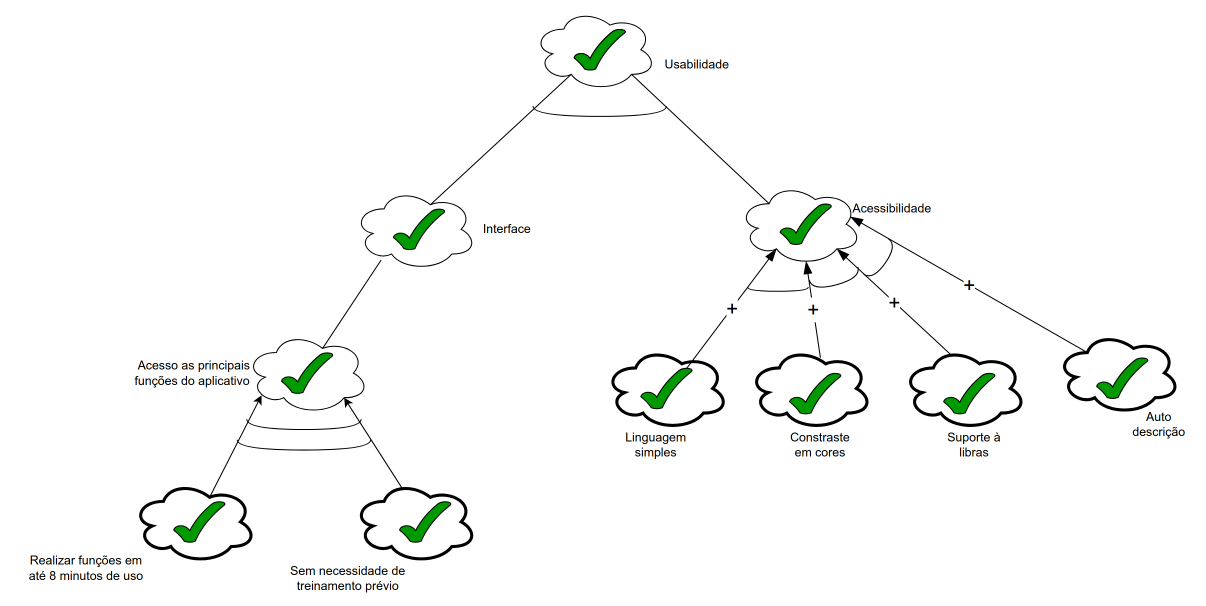
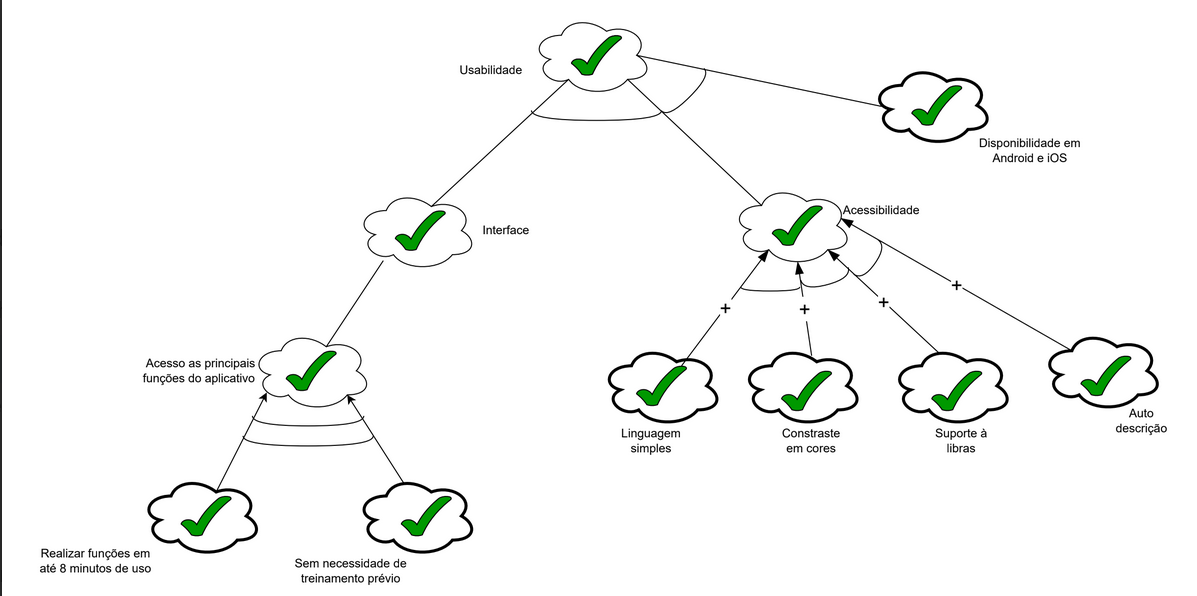
validacao geovana

diff --git a/docs/Modelagem/Ágil/NFR-Framework.md b/docs/Modelagem/Ágil/NFR-Framework.md
@@ -47,7 +47,7 @@ A seguir temos a tabela 1, onde indica todos os participantes da elaboração do
       </tr>
       <tr>
         <td><a href="https://github.com/Yanmatheus0812">Yan Matheus</a></td>
-        <td>Elaborou o <a href="https://requisitos-de-software.github.io/2025.2-Grupo05/Modelagem/%C3%81gil/NFR-Framework/#:~:text=m%C3%A1ximo%203%20segundos.-,Rastreabilidade,RQ26,-Classifica%C3%A7%C3%A3o">Cartão de especificação do NFR26</a> e colaborou na confecção do grafo SIG</td>
+        <td>Elaborou o <a href="https://requisitos-de-software.github.io/2025.2-Grupo05/Modelagem/%C3%81gil/NFR-Framework/#:~:text=m%C3%A1ximo%203%20segundos.-,Rastreabilidade,RQ26,-Classifica%C3%A7%C3%A3o">Cartão de especificação do NFR26</a>, <a href="">Cartão de especificação do NFR10</a> e colaborou na confecção do grafo SIG</td>
         <td>17/10/2025</td>
       </tr>
     </tbody>
@@ -143,7 +143,7 @@ Na tabela 3, está apresentado o cartão de especificação do Requisito Não Fu
 | Itens                 | Descrição                                                                                                                                                           |
 | --------------------- | ------------------------------------------------------------------------------------------------------------------------------------------------------------------- |
 | RNF                   | O aplicativo deve ter uma tecnologia blockchain que é usada para a autenticação e disponibilização de documentos.                                                   |
-| Rastriabilidade       | [RQ03](<https://requisitos-de-software.github.io/2025.2-Grupo05/Modelagem/Especificacao/#:~:text=Autor-,RQ3,-Confiabilidade%20(R)>)                                 |
+| Rastreabilidade       | [RQ03](<https://requisitos-de-software.github.io/2025.2-Grupo05/Modelagem/Especificacao/#:~:text=Autor-,RQ3,-Confiabilidade%20(R)>)                                 |
 | Classificação         | Segurança (S)                                                                                                                                                       |
 | Descrição             | O requisito define que aplicativo deve ter tecnologia blockchain para autenticação e diponibilização de documentos ,garantindo ratreabiliade e segurança dos dados. |
 | Justificativa         | O uso da tecnologia blockchain garante a segurança dos dados ,reduzindo a perda de dados.                                                                           |
@@ -156,7 +156,25 @@ Na tabela 3, está apresentado o cartão de especificação do Requisito Não Fu
 
 <font size="3"><p style="text-align: center">Autor: <a href="https://github.com/mel14-hub">Lara Souza Mota</a></font>
 
-Tabela 4, está apresentado o cartão de especificação do Requisito Não Funcional (RNF) associados ao NFR Framework de Usabilidade, com foco no tempo para realizar funções principais.
+Na tabela 4, está apresentado o cartão de especificação do Requisito Não Funcional (RNF) associados ao NFR Framework de Usabilidade, com foco na disponibilização do aplicativo em diversas plataformas.
+
+| Itens                 | Descrição                                                                                                                                                           |
+| --------------------- | ------------------------------------------------------------------------------------------------------------------------------------------------------------------- |
+| RNF                   | O aplicativo deve ter disponibilidade gratuita nos sistemas operacionais: Android e iOS.                                                   |
+| Rastriabilidade       | [RQ10](https://requisitos-de-software.github.io/2025.2-Grupo05/Elicita%C3%A7%C3%A3o/Requisitos-Elicitados/#:~:text=de%20documenta%C3%A7%C3%A3o%20(ADD010)-,RQ10,-O%20aplicativo%20deve)                                 |
+| Classificação         | Usabilidade (U)                                                                                                                                                       |
+| Descrição             | O requisito define que aplicativo deve ter disponibilidade gratuita em sistemas operacionais Android e iOS |
+| Justificativa         | Permite acesso a todos os estudantes que utilizam celular.                                                                           |
+| Critério de Aceitação | O sistema deve ter um acesso gratuito nas lojas de Android e iOS.                          |
+| Dependências          | Disponibilização do aplicativo nas principais lojas de aplicativo.                                         |
+| Prioridade            | Alta                                                                                                                                                                |
+| Conflitos             | Nenhum                                                                                                                                                              |
+
+<font size="3"><p style="text-align: center">Tabela 4: Disponibilização em Android e iOS </p></font>
+
+<font size="3"><p style="text-align: center">Autor: <a href="https://github.com/Yanmatheus0812">Yan Matheus</a></font>
+
+Tabela 5, está apresentado o cartão de especificação do Requisito Não Funcional (RNF) associados ao NFR Framework de Usabilidade, com foco no tempo para realizar funções principais.
 
 | Itens                 | Descrição                                                                                                                                                                                                                                             |
 | --------------------- | ----------------------------------------------------------------------------------------------------------------------------------------------------------------------------------------------------------------------------------------------------- |
@@ -170,11 +188,11 @@ Tabela 4, está apresentado o cartão de especificação do Requisito Não Funci
 | Prioridade            | Média                                                                                                                                                                                                                                                  |
 | Conflitos             | Nenhum                                                                                                                                                                                                                                                |
 
-<font size="3"><p style="text-align: center">Tabela 4: Tempo para realizar funções principais </p></font>
+<font size="3"><p style="text-align: center">Tabela 5: Tempo para realizar funções principais </p></font>
 
 <font size="3"><p style="text-align: center">Autor: <a href="https://github.com/pedrohpsantos">Pedro Henrique</a></font>
 
-A tabela 5, está apresentado o cartão de especificação do Requisito Não Funcional (RNF) associados ao NFR Framework de Usabilidade, com foco na linguagem adequada ao estudante.
+A tabela 6, está apresentado o cartão de especificação do Requisito Não Funcional (RNF) associados ao NFR Framework de Usabilidade, com foco na linguagem adequada ao estudante.
 
 | Itens                 | Descrição                                                                                                                                                                                                                                                        |
 | --------------------- | ---------------------------------------------------------------------------------------------------------------------------------------------------------------------------------------------------------------------------------------------------------------- |
@@ -188,11 +206,11 @@ A tabela 5, está apresentado o cartão de especificação do Requisito Não Fun
 | Prioridade            | Média                                                                                                                                                                                                                                                             |
 | Conflitos             | Nenhum                                                                                                                                                                                                                                                           |
 
-<font size="3"><p style="text-align: center">Tabela 5: Linguagem adequada ao estudante </p></font>
+<font size="3"><p style="text-align: center">Tabela 6: Linguagem adequada ao estudante </p></font>
 
 <font size="3"><p style="text-align: center">Autor: <a  href="https://github.com/CamilaSilvaC"> Camila Silva</a></font>
 
-A tabela 6, está apresentado o cartão de especificação do Requisito Não Funcional (RNF) associados ao NFR Framework de Performace, com foco em carregar informações em 3 segundos.
+A tabela 7, está apresentado o cartão de especificação do Requisito Não Funcional (RNF) associados ao NFR Framework de Performace, com foco em carregar informações em 3 segundos.
 
 | Itens                 | Descrição                                                                                                                                                                      |
 | --------------------- | ------------------------------------------------------------------------------------------------------------------------------------------------------------------------------ |
@@ -206,11 +224,11 @@ A tabela 6, está apresentado o cartão de especificação do Requisito Não Fun
 | Prioridade            | Alta                                                                                                                                                                           |
 | Conflitos             | Nenhum                                                                                                                                                                         |
 
-<font size="3"><p style="text-align: center">Tabela 6: Carregar informações em 3 segundos </p></font>
+<font size="3"><p style="text-align: center">Tabela 7: Carregar informações em 3 segundos </p></font>
 
 <font size="3"><p style="text-align: center">Autor: <a  href="https://github.com/Yanmatheus0812"> Yan Matheus</a></font>
 
-A tabela 7, está apresentados o cartão de especificação do Requisito Não Funcional (RNF) associados ao NFR Framework de Usabilidade, com foco em acessibilidade e inclusão digital.
+A tabela 8, está apresentados o cartão de especificação do Requisito Não Funcional (RNF) associados ao NFR Framework de Usabilidade, com foco em acessibilidade e inclusão digital.
 
 | Itens                 | Descrição                                                                                                                                                                                                          |
 | --------------------- | ------------------------------------------------------------------------------------------------------------------------------------------------------------------------------------------------------------------ |
@@ -224,11 +242,11 @@ A tabela 7, está apresentados o cartão de especificação do Requisito Não Fu
 | Prioridade            | Alta                                                                                                                                                                                                               |
 | Conflitos             | Nenhum                                                                                                                                                                                                             |
 
-<font size="3"><p style="text-align: center">Tabela 7: Acessibilidade e inclusão digital </p></font>
+<font size="3"><p style="text-align: center">Tabela 8: Acessibilidade e inclusão digital </p></font>
 
 <font size="3"><p style="text-align: center">Autor: <a  href="https://github.com/luisa12ll"> Luísa de Souza </a></font>
 
-A tabela 8, está apresentado o cartão de especificação do Requisito Não Funcional (RNF) associados ao NFR Framework de Performance, com foco no tempo de localização de funcionalidades.
+A tabela 9, está apresentado o cartão de especificação do Requisito Não Funcional (RNF) associados ao NFR Framework de Performance, com foco no tempo de localização de funcionalidades.
 
 | Itens                 | Descrição                                                                                                                                                                          |
 | --------------------- | ---------------------------------------------------------------------------------------------------------------------------------------------------------------------------------- |
@@ -242,7 +260,7 @@ A tabela 8, está apresentado o cartão de especificação do Requisito Não Fun
 | Prioridade            | Alta                                                                                                                                                                              |
 | Conflitos             | Nenhum                                                                                                                                                                             |
 
-<font size="3"><p style="text-align: center">Tabela 8: Tempo de localização de funcionalidades </p></font>
+<font size="3"><p style="text-align: center">Tabela 9: Tempo de localização de funcionalidades </p></font>
 
 <font size="3"><p style="text-align: center">Autor: <a href="https://github.com/GeovannaUmbeliino">Geovanna Alves</a></font>
 
@@ -262,9 +280,9 @@ Figura 4 - Análise diagrama - Usabilidade
 
 ### Requisitos Não-Funcionais - Usabilidade
 
-Na Tabela 8, estão listados os RNF presentes no NFR Famework de Usabilidade :
+Na Tabela 10, estão listados os RNF presentes no NFR Famework de Usabilidade :
 
-<b>Tabela 8</b> - Requisitos Não-Funcionais 1
+<b>Tabela 10</b> - Requisitos Não-Funcionais 1
 
 | RNF (Fonte)                                                                                                                                    | Descrição                                                                                                                                                                           | Classificação |
 | ---------------------------------------------------------------------------------------------------------------------------------------------- | ----------------------------------------------------------------------------------------------------------------------------------------------------------------------------------- | ------------- |
@@ -290,9 +308,9 @@ Figura 5 - Análise diagrama - Perfomance
 
 ### Requisitos Não-Funcionais - Performance
 
-Na Tabela 9, estão listados os RNF presentes no NFR Famework de Usabilidade :
+Na Tabela 11, estão listados os RNF presentes no NFR Famework de Usabilidade :
 
-<b>Tabela 9</b> - Requisitos Não-Funcionais 2
+<b>Tabela 11</b> - Requisitos Não-Funcionais 2
 
 | RNF (Fonte)                                                                                                                                | Descrição                                                                                               | Classificação |
 | ------------------------------------------------------------------------------------------------------------------------------------------ | ------------------------------------------------------------------------------------------------------- | ------------- |
@@ -317,9 +335,9 @@ Figura 6 - Análise diagrama - Segurança
 
 ### Requisitos Não-Funcionais - Segurança
 
-Na Tabela 10, estão listados os RNF presentes no NFR Famework de Usabilidade :
+Na Tabela 12, estão listados os RNF presentes no NFR Famework de Usabilidade :
 
-<b>Tabela 10</b> - Requisitos Não-Funcionais 3
+<b>Tabela 12</b> - Requisitos Não-Funcionais 3
 
 | RNF (Fonte)                                                                                                                         | Descrição                                                                                                         | Classificação |
 | ----------------------------------------------------------------------------------------------------------------------------------- | ----------------------------------------------------------------------------------------------------------------- | ------------- |
@@ -331,9 +349,9 @@ Fonte: [Yan Matheus](https://github.com/Yanmatheus0812)
 
 ### Participantes 1
 
-A seguir temos a tabela 11, onde indica todos os participantes da sessão NFR Framework, o horário e local da aplicação da técnica.
+A seguir temos a tabela 13, onde indica todos os participantes da sessão NFR Framework, o horário e local da aplicação da técnica.
 
-<font size="3"><p style="text-align: center">Tabela 11: Participantes NFR Framwork</p></font>
+<font size="3"><p style="text-align: center">Tabela 13: Participantes NFR Framwork</p></font>
 
 <div align="center">
   <table>
@@ -402,3 +420,4 @@ Todo o conteúdo apresentado é de autoria do Grupo 05, que assume total respons
 | :----: | :--------: | :-----------------------------: | :-------------------------------------------------------------------------------------------------------------------------------------------------------------------------------------------------------------------------------------------------------------------------------------------------------: | :--------------------------------------------: |
 |  1.0   | 18/10/2025 | Documentação dos primeiros NFRs | [Luisa de Souza](https://github.com/Luisa12ll), [Lara Souza](https://github.com/mel14-hub), [Pedro Henrique](https://github.com/pedrohpsantos), [Yan Matheus](https://github.com/Yanmatheus0812), [Geovanna Alves](https://github.com/GeovannaUmbelino) e [Camila Silva](https://github.com/CamilaSilvaC) | [Luisa de Souza](https://github.com/Luisa12ll) |
 |  1.1   | 20/10/2025 |      Atualização da tabela      |                                                                                                                            [Pedro Henrique](https://github.com/pedrohpsantos)                                                                                                                             |   [Lara Souza](https://github.com/mel14-hub)   |
+|  1.2   | 10/11/2025 |      Adicionado NFR de disponibilização de plataforma   |   [Yan Matheus](https://github.com/Yanmatheus0812) | [Geovanna Alves](https://github.com/GeovannaUmbelino) |

diff --git a/docs/Elicitação/Requisitos-Elicitados.md b/docs/Elicitação/Requisitos-Elicitados.md
@@ -79,7 +79,7 @@ A tabela 2 disposta abaixo representa todos os requisitos levantados durante a a
 |           RQ7 | O aplicativo deve apresentar os dados do estudante conforme a ultima atualização recebida do sistema acadêmico, podendo haver divergência em relação ao status final.               |    RR     |     Sim      |  1.1   | [Análise de documentação (ADD08)](https://requisitos-de-software.github.io/2025.2-Grupo05/Elicita%C3%A7%C3%A3o/Tecnicas/Analise_docs/#:~:text=Foto-,ADD08,-O%20aplicativo%20deve)                                                                              |
 |           RQ8 | O aplicativo deve possibilitar a visualização de faltas do estudante.                                                                                                               |    RF     |     Sim      |  1.0   | [Análise de documentação (ADD09)](https://requisitos-de-software.github.io/2025.2-Grupo05/Elicita%C3%A7%C3%A3o/Tecnicas/Analise_docs/#:~:text=Foto-,ADD09,-O%20aplicativo%20deve)                                                                              |
 |           RQ9 | O aplicativo deve apresentar atualizações referente ao pagamento do Pé-de-Meia disponível em até um mês.                                                                            |    RF     |     Não      |  1.0   | [Análise de documentação (ADD010)](https://requisitos-de-software.github.io/2025.2-Grupo05/Elicita%C3%A7%C3%A3o/Tecnicas/Analise_docs/#:~:text=Foto-,ADD010,-O%20aplicativo%20deve)                                                                              |
-|          RQ10 | O aplicativo deve ter disponibilidade gratuita nos sistemas operacionais: Android e iOS.                                                                                            |    RPR    |     Sim      |  1.0   | [Análise de documentação (ADD012)](https://requisitos-de-software.github.io/2025.2-Grupo05/Elicita%C3%A7%C3%A3o/Tecnicas/Analise_docs/#:~:text=Foto-,ADD012,-O%20aplicativo%20deve)                                                                             |
+|          RQ10 | O aplicativo deve ter disponibilidade gratuita nos sistemas operacionais: Android e iOS.                                                                                            |    RNF    |     Sim      |  1.1   | [Análise de documentação (ADD012)](https://requisitos-de-software.github.io/2025.2-Grupo05/Elicita%C3%A7%C3%A3o/Tecnicas/Analise_docs/#:~:text=Foto-,ADD012,-O%20aplicativo%20deve)                                                                             |
 |          RQ11 | O aplicativo deve possibilitar o acompanhamento de registros estudantis desde o ingresso até níveis superiores.                                                                     |    RF     |     Sim      |  1.0   | [Análise de documentação (ADD013)](https://requisitos-de-software.github.io/2025.2-Grupo05/Elicita%C3%A7%C3%A3o/Tecnicas/Analise_docs/#:~:text=Foto-,ADD013,-O%20aplicativo%20deve)                                                                              |
 |          RQ12 | O aplicativo deve ter um canal direto de comunicação entre o MEC e os estudantes.                                                                                                   |    RF     |     Sim      |  1.0   | [Análise de documentação ADD015](https://requisitos-de-software.github.io/2025.2-Grupo05/Elicita%C3%A7%C3%A3o/Tecnicas/Analise_docs/#:~:text=Foto-,ADD015,-O%20aplicativo%20deve)                                                                              |
 |          RQ13 | O aplicativo deve possibilitar informar um curso que você estudou ou está cursando.                                                                                                 |    RF     |     Sim      |  1.0   | [Análise de documentação (ADD016)](https://requisitos-de-software.github.io/2025.2-Grupo05/Elicita%C3%A7%C3%A3o/Tecnicas/Analise_docs/#:~:text=Foto-,ADD016,-O%20aplicativo%20deve)                                                                              |
@@ -143,31 +143,20 @@ Elaboração por <a href="https://github.com/CamilaSilvaC">Camila Silva</a>,
 
 </p>
 
-## Validação da Elicitação de Requisitos
+## Validação - Elicitação de requisitos
+A seguir temos a tabela 3, onde indica todos os participantes da validação da elicitação, o horário e local da aplicação da técnica. O usuário corresponde ao perfil de usuário 1.
 
-A etapa de validação da elicitação tem como objetivo confirmar junto aos stakeholders se os requisitos levantados estão corretos, consistentes e de acordo com as reais necessidades do projeto.
+| Papel | Nome | Data | Hora | Local |
+|-------|------|------|------|-------|
+| Mediador | [Geovanna Alves](https://github.com/GeovannaUmbelino) | 27/09/2025 | 10:40 | Cidade Ocidental - GO |
+| Usuário | Miguel | 27/09/2025 | 10:40 | Cidade Ocidental - GO |
 
-Esse processo é importante para:
+<p style="text-align: center; font-size: 14px;">
+<strong>Tabela 3:</strong> Validação elicitação de requisitos<br>
+Autor: <a href="https://github.com/GeovannaUmbeliino">Geovanna Alves</a>
+</p>
 
-Garantir que não haja ambiguidades ou erros de interpretação.
-
-Verificar se os requisitos elicitados atendem às expectativas do cliente.
-
-Evitar retrabalho durante as próximas fases do desenvolvimento.
-
-A validação foi realizada por meio de entrevista, onde os requisitos foram apresentados, discutidos e ajustados com base no feedback dos envolvidos.
-
-A Tabela 3 apresenta as informações da etapa de gravação da elicitação, como data, hora e local.
-
-Tabela 3: Informações da Gravação.
-
-| Data       | Hora  | Local               |
-| ---------- | ----- | ------------------- |
-| 27/09/2025 | 10:40 | Cidade Ocidental-GO |
-
-Autoria de <a href="https://github.com/GeovannaUmbeliino">Geovanna Alves</a>.</p>
-
-Além disso, a gravação da validação pode ser conferida em: [Validação da elicitação de requisitos](https://www.youtube.com/watch?v=dK_SfG7SVw8&list=PLLWUvFk-8eapL5FB6mMvY3y0y_tqLEXji&index=24).
+<iframe width="560" height="315" src="https://www.youtube.com/embed/dK_SfG7SVw8?si=GtXG_cbe6-XWQUpU" title="YouTube video player" frameborder="0" allow="accelerometer; autoplay; clipboard-write; encrypted-media; gyroscope; picture-in-picture; web-share" referrerpolicy="strict-origin-when-cross-origin" allowfullscreen></iframe>
 
 ## Agradecimentos
 
@@ -190,3 +179,4 @@ Todo o conteúdo apresentado é de autoria do Grupo 05, que assume total respons
 | 1.4    | 28/10/2025 | Ajustando requisito 59 não implementado |[Yan Matheus](https://github.com/Yanmatheus0812)   | [Geovanna Alves](https://github.com/GeovannaUmbelino)     |
 | 1.5    | 31/10/2025 | Ajustando os hiperlinks dos requisitos |  [Geovanna Alves](https://github.com/GeovannaUmbelino)   e  [Camila Silva](https://github.com/CamilaSilvaC)  | [Yan Matheus](https://github.com/Yanmatheus0812)   |
 | 1.6    | 09/10/2025 | Adicionado a tabela de contribuição         | [Yan Matheus](https://github.com/Yanmatheus0812)                                                                                                          | [Geovanna Alves](https://github.com/GeovannaUmbelino) |
+| 1.7 | 10/11/2025 | Ajuste no RQ10 e correção no vídeo de validação | [Yan Matheus](https://github.com/Yanmatheus0812) | [Camila Silva](https://github.com/CamilaSilvaC)

diff --git a/docs/Elicitação/Perfil_usuario.md b/docs/Elicitação/Perfil_usuario.md
@@ -183,6 +183,22 @@ Após uma análise das respostas, foi traçado dois perfis de usuário, o primei
 - **Grau de escolaridade:** Ensino superior incompleto a superior completo
 - **Tarefas desejadas:** Organizar atividades acadêmicas e centralizar suas respectivas informações.
 
+## Validação - Perfis de usuário
+
+A seguir temos a tabela 2, onde indica todos os participantes da validação da técnica, o horário e local da aplicação da técnica. O usuário corresponde ao perfil de usuário 1.
+
+| Papel | Nome | Data | Hora | Local |
+|-------|------|------|------|-------|
+| Mediador | [Geovanna Alves](https://github.com/GeovannaUmbelino) | 09/11/2025 | 10:30 | Cidade Ocidental - GO |
+| Usuário | Miguel | 09/11/2025 | 10:30 | Cidade Ocidental - GO |
+
+<p style="text-align: center; font-size: 14px;">
+<strong>Tabela 2:</strong> Validação Perfis de Usuário<br>
+Autor: <a href="https://github.com/Yanmatheus0812">Yan Matheus</a>
+</p>
+
+<iframe width="560" height="315" src="https://www.youtube.com/embed/6opsT6Ll2oc?si=dQwtxYZpbc77rQa5" title="YouTube video player" frameborder="0" allow="accelerometer; autoplay; clipboard-write; encrypted-media; gyroscope; picture-in-picture; web-share" referrerpolicy="strict-origin-when-cross-origin" allowfullscreen></iframe>
+
 ## Agradecimentos
 
 <div style="text-align:left; font-size:0.9em; color:#6c757d; margin-top:1em;">

diff --git a/docs/Análise/Comprovacao.md b/docs/Análise/Comprovacao.md
@@ -11,7 +11,7 @@ A mensagem enviada por e-mail adotou uma abordagem estruturada e solene. A escol
 
 A figura 1 mostra a mensagem enviada no dia 06/11/2025.
 
-![Email](/docs/img/Email.png)
+![Email](../img/Email.png)
 
 ## Retorno do Jornada do Estudante
 Até o momento da entrega do artefato 12/11/2025 não foram obtidas respostas de validação. Caso a equipe entre em contato, será inserido neste artefato sua comprovação informal quanto ao que foi desenvolvido no projeto.
